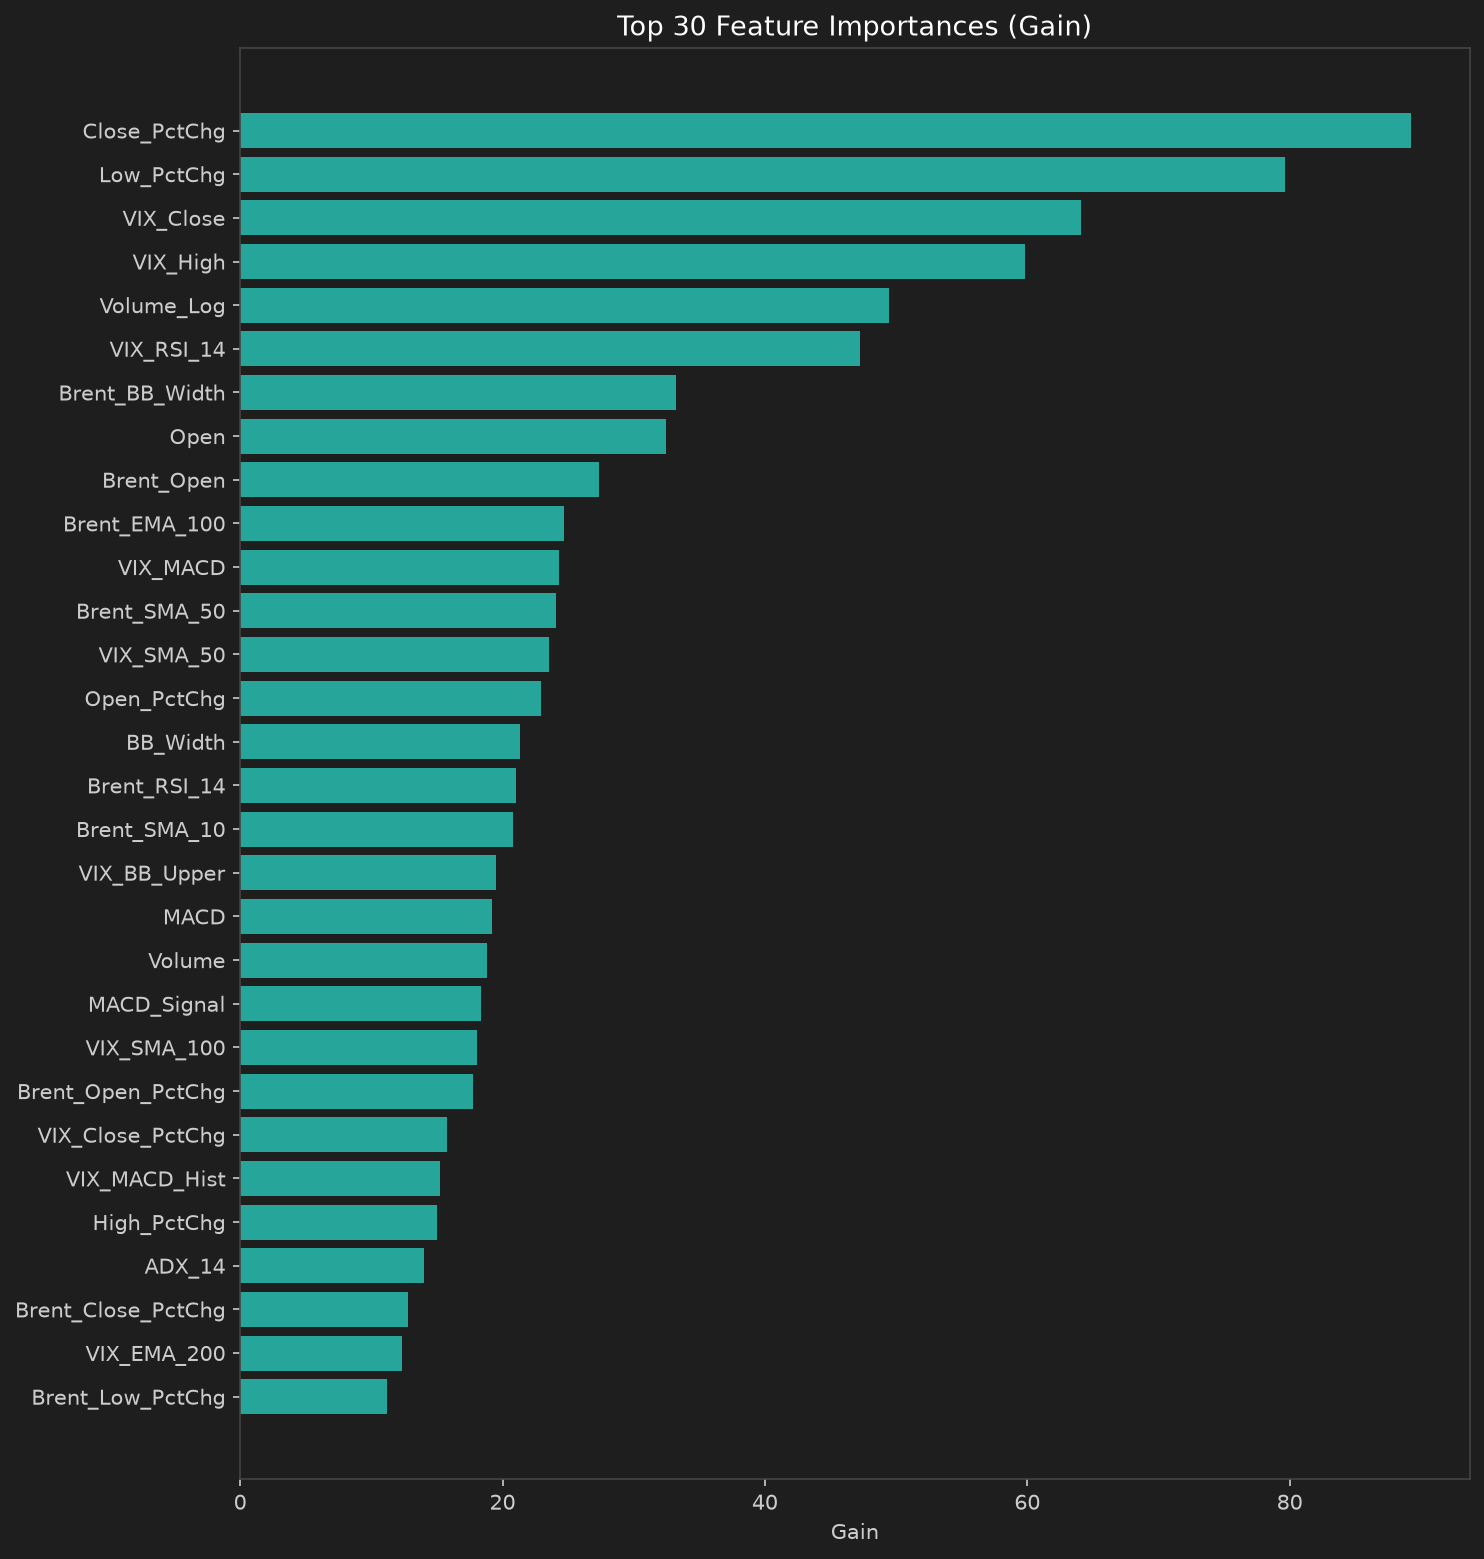
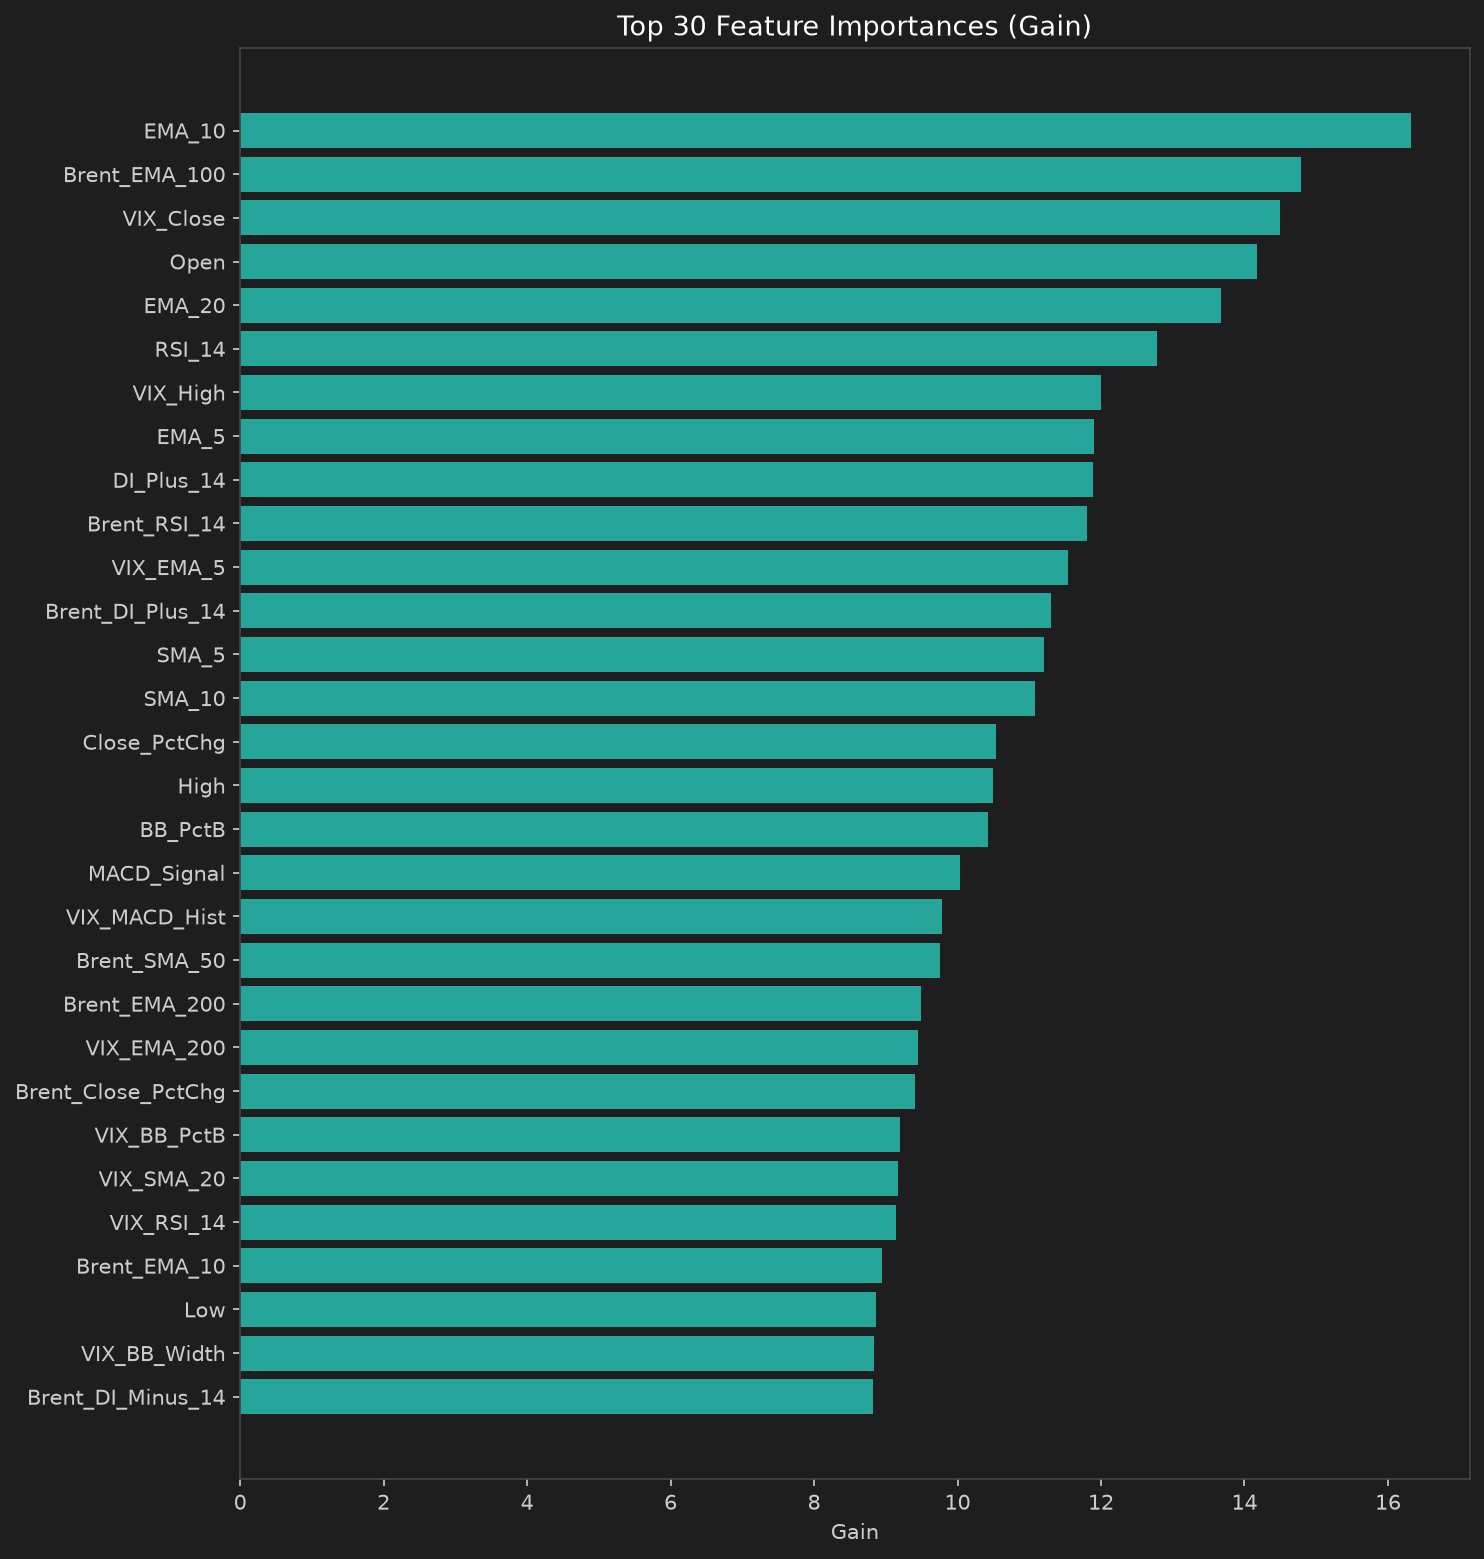
feat: XGBoost regressor for next-week return prediction
Replace binary classifier with regression model:
  Target = (Close[t+1] - Close[t]) / Close[t] * 100

Shifted forward by one week to avoid look-ahead bias.
All OB group columns excluded from features.

Chronological split:
  Train: 2000-01 -> 2018-07 (281 rows, mean return 0.27%)
  Val:   2018-07 -> 2022-06 (207 rows, mean return 0.23%)
  Test:  2022-07 -> 2026-06 (208 rows, mean return 0.36%)

Test results:
  MAE: 1.65%, RMSE: 2.14%, R²: -0.006
  Direction accuracy: 55.77%

Top features: EMA_10, Brent_EMA_100, VIX_Close, Open,
EMA_20, RSI_14

diff --git a/model_xgboost.py b/model_xgboost.py
@@ -1,25 +1,24 @@
 """
-XGBoost classifier to predict Bullish Order Blocks (Target=1).
+XGBoost regressor to predict next-week return magnitude.
+
+Target: (Close[t+1] - Close[t]) / Close[t]  (percentage return, shifted forward)
 
 Key design decisions to avoid look-ahead bias:
-  1. Chronological split — no shuffling. Train on the past, test on the future.
+  1. Target is SHIFTED FORWARD by one week — we predict next week's return
+     using only information available up to the current week.
+  2. OB group columns excluded entirely (they are confirmed retroactively).
+  3. Chronological split — no shuffling. Train on the past, test on the future.
      Train: first 70%  |  Validation: next 15%  |  Test: final 15%
-  2. No future-leaking features — OB group columns are excluded entirely.
-  3. NaN handling — rows with NaN in features are dropped only AFTER the split
-     boundaries are determined, so the time boundaries stay clean.
-  4. scale_pos_weight used to handle severe class imbalance (~3% positive).
+  4. Last row is dropped (no next-week return available).
 """
 
 import pandas as pd
 import numpy as np
 import xgboost as xgb
 from sklearn.metrics import (
-    classification_report,
-    confusion_matrix,
-    roc_auc_score,
-    precision_recall_curve,
-    average_precision_score,
-    f1_score,
+    mean_absolute_error,
+    mean_squared_error,
+    r2_score,
 )
 import matplotlib
 matplotlib.use("Agg")
@@ -32,8 +31,7 @@ INPUT_CSV = DATA_DIR / "spy_weekly_enriched.csv"
 MODEL_DIR = Path(__file__).parent / "model"
 MODEL_DIR.mkdir(exist_ok=True)
 
-OB_COLS = ["OB_Bull", "OB_Bear", "OB_Type", "OB_High", "OB_Low", "OB_Mid"]
-TARGET_COL = "Target"
+OB_COLS = ["OB_Bull", "OB_Bear", "OB_Type", "OB_High", "OB_Low", "OB_Mid", "Target"]
 
 TRAIN_FRAC = 0.70
 VAL_FRAC = 0.15
@@ -42,11 +40,14 @@ VAL_FRAC = 0.15
 def load_and_prepare():
     df = pd.read_csv(INPUT_CSV, index_col="Week_Ending", parse_dates=True)
 
-    drop_cols = OB_COLS + [TARGET_COL]
-    feature_cols = [c for c in df.columns if c not in drop_cols]
+    df["Next_Week_Return"] = df["Close"].pct_change(1).shift(-1) * 100
+
+    df.dropna(subset=["Next_Week_Return"], inplace=True)
+
+    feature_cols = [c for c in df.columns if c not in OB_COLS + ["Next_Week_Return"]]
 
     X = df[feature_cols]
-    y = df[TARGET_COL]
+    y = df["Next_Week_Return"]
 
     return X, y, feature_cols
 
@@ -84,28 +85,30 @@ def print_section(title):
     print(f"{'=' * w}")
 
 
-def evaluate(model, X, y, label, threshold=0.5):
-    """Evaluate and print metrics for a given split."""
-    y_prob = model.predict_proba(X)[:, 1]
-    y_pred = (y_prob >= threshold).astype(int)
+def evaluate(model, X, y, label):
+    """Evaluate regression metrics."""
+    y_pred = model.predict(X)
 
-    print(f"\n--- {label} (threshold={threshold}) ---")
-    print(confusion_matrix(y, y_pred))
-    print(classification_report(y, y_pred, zero_division=0))
+    mae = mean_absolute_error(y, y_pred)
+    rmse = np.sqrt(mean_squared_error(y, y_pred))
+    r2 = r2_score(y, y_pred)
 
-    if y.sum() > 0 and len(y.unique()) > 1:
-        auc = roc_auc_score(y, y_prob)
-        ap = average_precision_score(y, y_prob)
-        print(f"  ROC-AUC: {auc:.4f}")
-        print(f"  Average Precision (PR-AUC): {ap:.4f}")
-    else:
-        auc, ap = None, None
-        print(f"  (ROC-AUC/AP not computable — only one class in {label})")
+    direction_actual = (y > 0).astype(int)
+    direction_pred = (y_pred > 0).astype(int)
+    dir_accuracy = (direction_actual == direction_pred).mean() * 100
 
-    return y_prob, y_pred, auc, ap
+    print(f"\n--- {label} ---")
+    print(f"  MAE:                {mae:.4f}%")
+    print(f"  RMSE:               {rmse:.4f}%")
+    print(f"  R²:                 {r2:.4f}")
+    print(f"  Direction Accuracy: {dir_accuracy:.2f}%")
+    print(f"  Actual mean return: {y.mean():.4f}%  (std: {y.std():.4f}%)")
+    print(f"  Predicted mean:     {y_pred.mean():.4f}%  (std: {y_pred.std():.4f}%)")
+
+    return y_pred, {"mae": mae, "rmse": rmse, "r2": r2, "dir_accuracy": dir_accuracy}
 
 
-def plot_feature_importance(model, feature_cols, top_n=30):
+def plot_feature_importance(model, top_n=30):
     importance = model.get_booster().get_score(importance_type="gain")
     imp_df = pd.DataFrame(
         {"feature": list(importance.keys()), "gain": list(importance.values())}
@@ -133,45 +136,54 @@ def plot_feature_importance(model, feature_cols, top_n=30):
     return imp_df
 
 
-def plot_precision_recall(y_true, y_prob, label):
-    precision, recall, thresholds = precision_recall_curve(y_true, y_prob)
-    ap = average_precision_score(y_true, y_prob)
-
-    fig, ax = plt.subplots(figsize=(8, 6))
+def plot_predictions_vs_actual(y_true, y_pred, label):
+    fig, axes = plt.subplots(1, 2, figsize=(16, 6))
     fig.patch.set_facecolor("#1e1e1e")
+
+    # Scatter: predicted vs actual
+    ax = axes[0]
     ax.set_facecolor("#1e1e1e")
-    ax.plot(recall, precision, color="#26a69a", linewidth=2)
-    ax.set_xlabel("Recall", color="#cccccc")
-    ax.set_ylabel("Precision", color="#cccccc")
-    ax.set_title(f"Precision-Recall Curve — {label} (AP={ap:.4f})", color="white", fontsize=13)
+    ax.scatter(y_true, y_pred, alpha=0.5, s=12, color="#26a69a")
+    lims = [min(y_true.min(), y_pred.min()), max(y_true.max(), y_pred.max())]
+    ax.plot(lims, lims, "--", color="#ef5350", linewidth=1, label="Perfect prediction")
+    ax.set_xlabel("Actual Return (%)", color="#cccccc")
+    ax.set_ylabel("Predicted Return (%)", color="#cccccc")
+    ax.set_title(f"Predicted vs Actual — {label}", color="white", fontsize=12)
     ax.tick_params(colors="#cccccc")
+    ax.legend(facecolor="#2a2a2a", edgecolor="#555555", labelcolor="white")
     for spine in ax.spines.values():
         spine.set_color("#444444")
     ax.grid(color="#333333", alpha=0.5)
 
+    # Time series overlay
+    ax2 = axes[1]
+    ax2.set_facecolor("#1e1e1e")
+    x_range = range(len(y_true))
+    ax2.plot(x_range, y_true.values, color="#26a69a", alpha=0.7, linewidth=1, label="Actual")
+    ax2.plot(x_range, y_pred, color="#ef5350", alpha=0.7, linewidth=1, label="Predicted")
+    ax2.axhline(0, color="#666666", linewidth=0.5, linestyle="--")
+    ax2.set_xlabel("Week", color="#cccccc")
+    ax2.set_ylabel("Return (%)", color="#cccccc")
+    ax2.set_title(f"Return Time Series — {label}", color="white", fontsize=12)
+    ax2.tick_params(colors="#cccccc")
+    ax2.legend(facecolor="#2a2a2a", edgecolor="#555555", labelcolor="white")
+    for spine in ax2.spines.values():
+        spine.set_color("#444444")
+    ax2.grid(color="#333333", alpha=0.5)
+
     plt.tight_layout()
-    path = MODEL_DIR / f"pr_curve_{label.lower().replace(' ', '_')}.png"
+    path = MODEL_DIR / f"predictions_{label.lower().replace(' ', '_')}.png"
     fig.savefig(path, dpi=150, bbox_inches="tight", facecolor=fig.get_facecolor())
     plt.close()
-    print(f"  PR curve saved to {path}")
-
-
-def find_best_threshold(y_true, y_prob):
-    """Find threshold that maximises F1 on the given set."""
-    best_f1, best_t = 0, 0.5
-    for t in np.arange(0.05, 0.95, 0.01):
-        preds = (y_prob >= t).astype(int)
-        f = f1_score(y_true, preds, zero_division=0)
-        if f > best_f1:
-            best_f1, best_t = f, t
-    return best_t, best_f1
+    print(f"  Prediction chart saved to {path}")
 
 
 def main():
     print_section("DATA PREPARATION")
     X, y, feature_cols = load_and_prepare()
     print(f"Features: {len(feature_cols)} columns")
-    print(f"Target distribution: {dict(y.value_counts())}")
+    print(f"Target: Next_Week_Return (% change)")
+    print(f"  Mean: {y.mean():.4f}%,  Std: {y.std():.4f}%,  Min: {y.min():.4f}%,  Max: {y.max():.4f}%")
 
     print_section("CHRONOLOGICAL SPLIT")
     X_train, y_train, X_val, y_val, X_test, y_test = chronological_split(X, y)
@@ -180,80 +192,60 @@ def main():
     X_val, y_val = drop_nan_rows(X_val, y_val, "Val")
     X_test, y_test = drop_nan_rows(X_test, y_test, "Test")
 
-    pos = y_train.sum()
-    neg = len(y_train) - pos
-    spw = neg / pos if pos > 0 else 1
-    print(f"\n  Train class balance: {int(neg)} neg / {int(pos)} pos")
-    print(f"  scale_pos_weight: {spw:.1f}")
+    print(f"\n  Train target stats: mean={y_train.mean():.4f}%, std={y_train.std():.4f}%")
+    print(f"  Val target stats:   mean={y_val.mean():.4f}%, std={y_val.std():.4f}%")
+    print(f"  Test target stats:  mean={y_test.mean():.4f}%, std={y_test.std():.4f}%")
 
-    print_section("TRAINING XGBoost")
-    model = xgb.XGBClassifier(
-        n_estimators=500,
+    print_section("TRAINING XGBoost REGRESSOR")
+    model = xgb.XGBRegressor(
+        n_estimators=1000,
         max_depth=5,
-        learning_rate=0.05,
+        learning_rate=0.03,
         subsample=0.8,
-        colsample_bytree=0.8,
-        scale_pos_weight=spw,
-        min_child_weight=3,
+        colsample_bytree=0.7,
+        min_child_weight=5,
         gamma=1,
-        reg_alpha=0.5,
-        reg_lambda=1.0,
-        eval_metric="aucpr",
-        early_stopping_rounds=30,
+        reg_alpha=1.0,
+        reg_lambda=5.0,
+        eval_metric="rmse",
+        early_stopping_rounds=50,
         random_state=42,
-        use_label_encoder=False,
     )
 
     model.fit(
         X_train, y_train,
-        eval_set=[(X_val, y_val)],
-        verbose=50,
+        eval_set=[(X_train, y_train), (X_val, y_val)],
+        verbose=100,
     )
 
     best_iter = model.best_iteration
     print(f"\n  Best iteration: {best_iter}")
 
-    print_section("EVALUATION — DEFAULT THRESHOLD (0.5)")
-    val_prob, _, val_auc, val_ap = evaluate(model, X_val, y_val, "Validation")
-    test_prob, _, test_auc, test_ap = evaluate(model, X_test, y_test, "Test")
-
-    print_section("THRESHOLD TUNING (on Validation set)")
-    best_t, best_f1 = find_best_threshold(y_val, val_prob)
-    print(f"  Best threshold: {best_t:.2f} (F1={best_f1:.4f} on validation)")
-
-    print_section(f"EVALUATION — TUNED THRESHOLD ({best_t:.2f})")
-    evaluate(model, X_val, y_val, "Validation (tuned)", threshold=best_t)
-    evaluate(model, X_test, y_test, "Test (tuned)", threshold=best_t)
+    print_section("EVALUATION")
+    train_pred, train_metrics = evaluate(model, X_train, y_train, "Train")
+    val_pred, val_metrics = evaluate(model, X_val, y_val, "Validation")
+    test_pred, test_metrics = evaluate(model, X_test, y_test, "Test")
 
     print_section("FEATURE IMPORTANCE")
-    imp_df = plot_feature_importance(model, feature_cols)
+    imp_df = plot_feature_importance(model)
     print("\n  Top 15 features by gain:")
     print(imp_df.head(15).to_string(index=False))
 
-    print_section("PRECISION-RECALL CURVES")
-    if y_val.sum() > 0:
-        plot_precision_recall(y_val, val_prob, "Validation")
-    if y_test.sum() > 0:
-        plot_precision_recall(y_test, test_prob, "Test")
+    print_section("PREDICTION CHARTS")
+    plot_predictions_vs_actual(y_val, val_pred, "Validation")
+    plot_predictions_vs_actual(y_test, test_pred, "Test")
 
-    model.save_model(str(MODEL_DIR / "xgb_bullish_ob.json"))
-    print(f"\n  Model saved to {MODEL_DIR / 'xgb_bullish_ob.json'}")
+    model.save_model(str(MODEL_DIR / "xgb_next_week_return.json"))
+    print(f"\n  Model saved to {MODEL_DIR / 'xgb_next_week_return.json'}")
 
     summary = {
+        "model_type": "XGBRegressor",
+        "target": "Next_Week_Return (% change)",
         "features": len(feature_cols),
-        "train_rows": len(X_train),
-        "val_rows": len(X_val),
-        "test_rows": len(X_test),
-        "train_positives": int(y_train.sum()),
-        "val_positives": int(y_val.sum()),
-        "test_positives": int(y_test.sum()),
-        "scale_pos_weight": round(spw, 1),
         "best_iteration": best_iter,
-        "best_threshold": round(best_t, 2),
-        "val_roc_auc": round(val_auc, 4) if val_auc else None,
-        "val_pr_auc": round(val_ap, 4) if val_ap else None,
-        "test_roc_auc": round(test_auc, 4) if test_auc else None,
-        "test_pr_auc": round(test_ap, 4) if test_ap else None,
+        "train": {"rows": len(X_train), **{k: round(v, 4) for k, v in train_metrics.items()}},
+        "validation": {"rows": len(X_val), **{k: round(v, 4) for k, v in val_metrics.items()}},
+        "test": {"rows": len(X_test), **{k: round(v, 4) for k, v in test_metrics.items()}},
     }
     with open(MODEL_DIR / "model_summary.json", "w") as f:
         json.dump(summary, f, indent=2)
